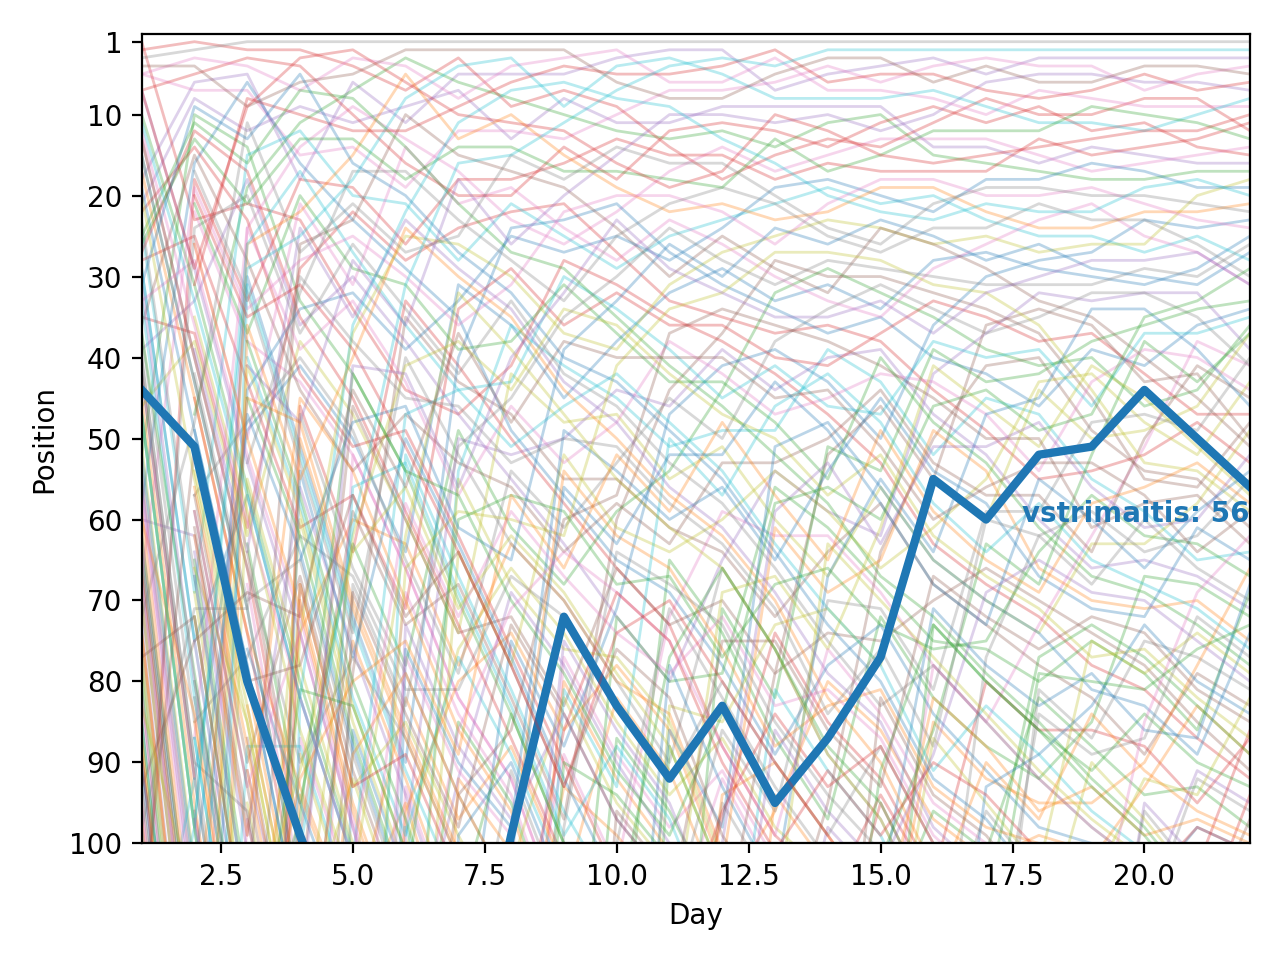
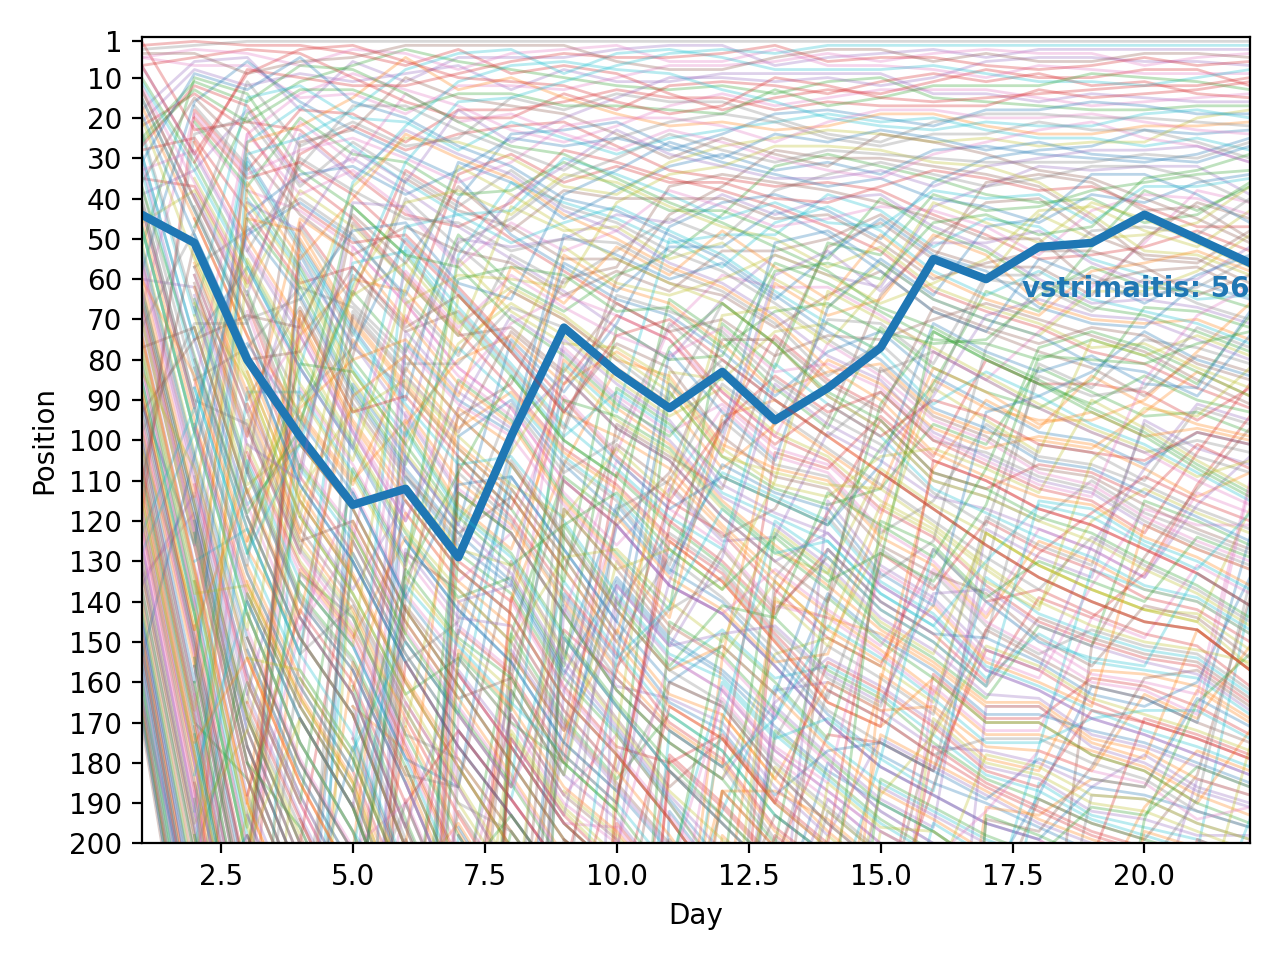
Update leaderboard

diff --git a/leaderboard/plot.py b/leaderboard/plot.py
@@ -36,7 +36,7 @@ if __name__ == "__main__":
             linewidth = 3
             plot_text = lambda: plt.text(
                 xs[-1],
-                ys[-1]+5,
+                ys[-1]+10,
                 f"{user}: {ys[-1]}",
                 horizontalalignment="right",
                 verticalalignment="bottom",
@@ -47,8 +47,9 @@ if __name__ == "__main__":
         plot_text()
     plt.xlabel("Day")
     plt.ylabel("Position")
-    plt.ylim(bottom=0, top=100)
-    plt.yticks([1, 10, 20, 30, 40, 50, 60, 70, 80, 90, 100])
+    LEADERBOARD_SIZE = 200
+    plt.ylim(bottom=0, top=LEADERBOARD_SIZE)
+    plt.yticks([1, *range(10, LEADERBOARD_SIZE+1, 10)])
     plt.gca().invert_yaxis()
     plt.tight_layout()
     plt.margins(x=0)
